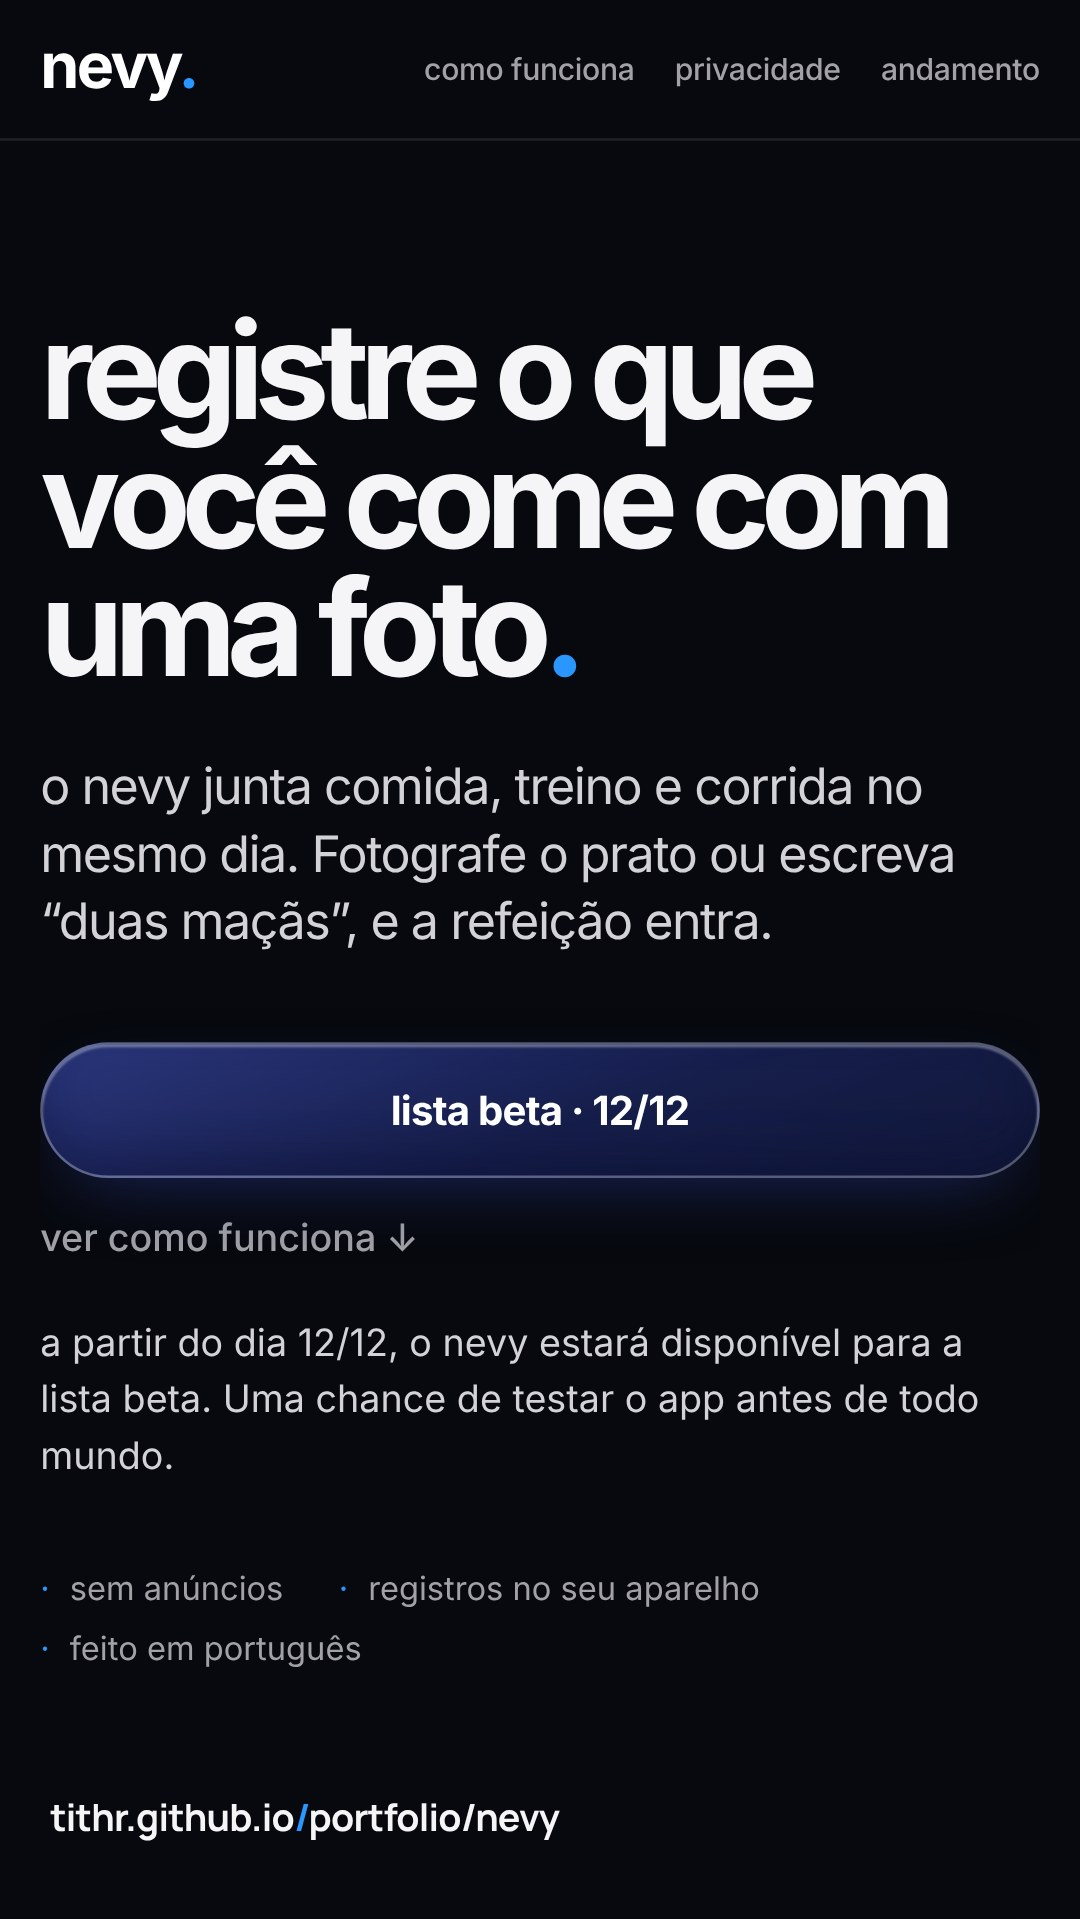
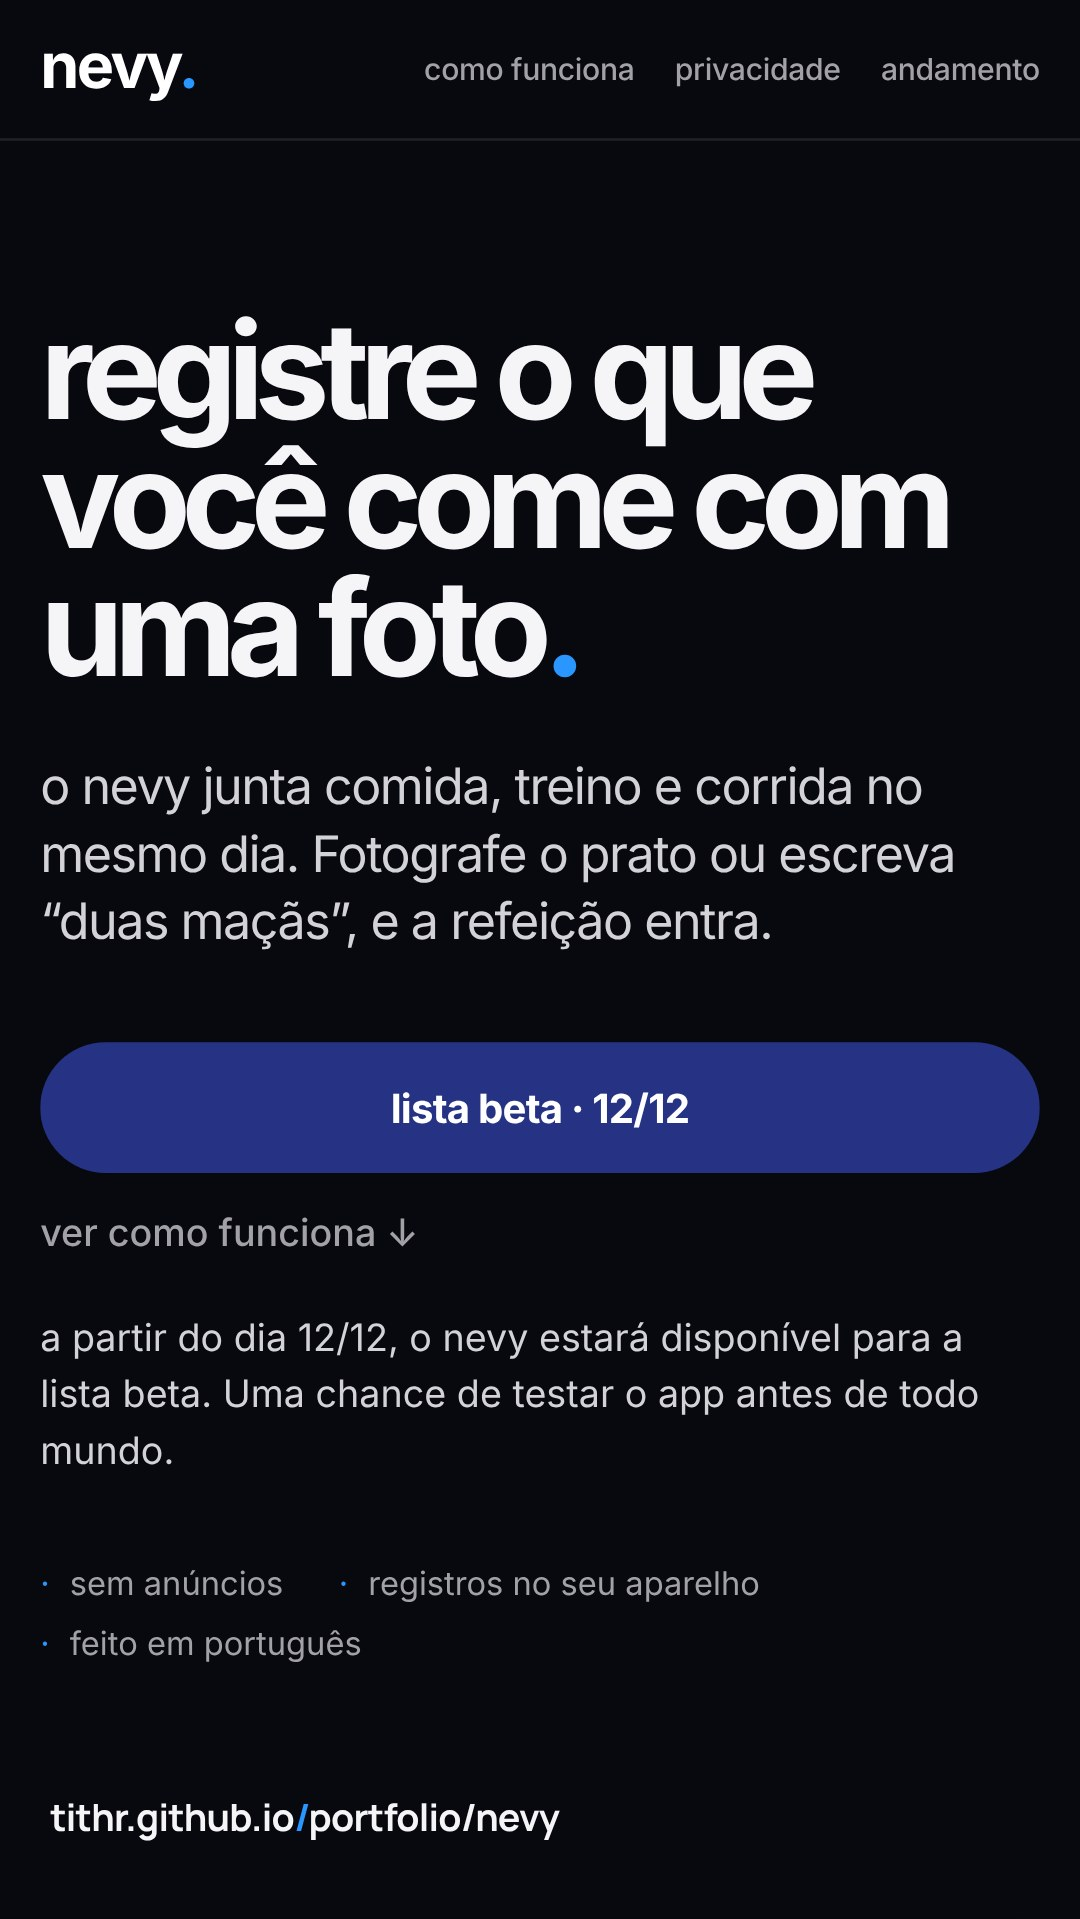
nevy landing: botões sem glass, seletor de idioma volta ao padrão do site
Claude-Session: https://claude.ai/code/session_015z2G63p8ibVhGsPnRoC111

diff --git a/styles.css b/styles.css
@@ -312,11 +312,10 @@ footer a { color: var(--ink); }
 .lp-hero h1 { margin: 18px 0 24px; font-size: clamp(42px, 6.2vw, 84px); letter-spacing: -.07em; line-height: .96; }
 .lp-hero h1 span { color: var(--acid); }
 .lp-cta { display: flex; flex-wrap: wrap; align-items: center; gap: 14px 26px; margin-top: 34px; }
-.lp-btn { display: inline-block; padding: 16px 30px; border: 1px solid rgba(255,255,255,.28); border-radius: 999px; background: linear-gradient(160deg, rgba(74,92,214,.55), rgba(38,51,132,.5) 55%, rgba(38,51,132,.35)); -webkit-backdrop-filter: blur(18px) saturate(180%); backdrop-filter: blur(18px) saturate(180%); box-shadow: inset 0 1px 1px rgba(255,255,255,.35), inset 0 -8px 16px rgba(10,14,48,.35), 0 10px 30px -12px rgba(38,51,132,.8); color: #fff; font: inherit; font-size: 16px; font-weight: 700; letter-spacing: -.02em; }
+.lp-btn { display: inline-block; padding: 16px 30px; border: 0; border-radius: 999px; background: #263384; color: #fff; font: inherit; font-size: 16px; font-weight: 700; letter-spacing: -.02em; }
 .lp-btn:disabled { cursor: not-allowed; }
 .lp-soon { max-width: 440px; margin: 22px 0 0; color: #d2d2d7; font-size: 15px; line-height: 1.5; }
-.status.lp-off { padding: 8px 18px; text-decoration: none; color: #fff; border: 1px solid rgba(255,255,255,.28); border-radius: 999px; background: linear-gradient(160deg, rgba(74,92,214,.55), rgba(38,51,132,.5)); -webkit-backdrop-filter: blur(14px) saturate(180%); backdrop-filter: blur(14px) saturate(180%); box-shadow: inset 0 1px 1px rgba(255,255,255,.35); cursor: default; }
-.lp .lang-switch { padding: 5px 14px; border: 1px solid rgba(255,255,255,.2); border-radius: 999px; background: rgba(255,255,255,.08); -webkit-backdrop-filter: blur(14px) saturate(180%); backdrop-filter: blur(14px) saturate(180%); box-shadow: inset 0 1px 1px rgba(255,255,255,.25); }
+.status.lp-off { padding: 8px 18px; text-decoration: none; color: #fff; border-radius: 999px; background: #263384; cursor: default; }
 .lp-big { margin: 24px 0 0; font-size: clamp(54px, 9vw, 128px); font-weight: 700; letter-spacing: -.09em; line-height: .9; }
 .lp-big span { color: #5a6be0; }
 .lp-link { color: var(--muted); font-size: 15px; font-weight: 500; transition: color .2s; }

diff --git a/nevy.html b/nevy.html
@@ -22,7 +22,7 @@
     <meta name="theme-color" content="#07090e" />
     <link rel="preload" href="fonts/manrope.woff2" as="font" type="font/woff2" crossorigin />
     <link rel="preload" href="img/nevy/03-hoje.webp" as="image" type="image/webp" fetchpriority="high" />
-    <link rel="stylesheet" href="styles.css?v=45" />
+    <link rel="stylesheet" href="styles.css?v=46" />
     <script type="application/ld+json">{"@context":"https://schema.org","@type":"MobileApplication","name":"nevy","operatingSystem":"iOS","applicationCategory":"HealthApplication","inLanguage":"pt-BR","description":"App de iPhone para registrar comida, treino e corrida com poucos toques. Em desenvolvimento.","author":{"@type":"Person","name":"Tiago Rosario","url":"https://tithr.github.io/portfolio/"}}</script>
   </head>
   <body class="case-page lp">

diff --git a/404.html b/404.html
@@ -8,7 +8,7 @@
     <meta name="theme-color" content="#07090e" />
     <link rel="icon" type="image/svg+xml" href="/portfolio/favicon.svg" />
     <style>@font-face { font-family: Manrope; font-weight: 200 800; font-display: swap; src: url(/portfolio/fonts/manrope.woff2) format("woff2"); }</style>
-    <link rel="stylesheet" href="/portfolio/styles.css?v=45" />
+    <link rel="stylesheet" href="/portfolio/styles.css?v=46" />
   </head>
   <body class="case-page">
     <a class="skip" href="#conteudo" data-i18n="skip">pular para o conteúdo</a>

diff --git a/nevy-case.html b/nevy-case.html
@@ -21,7 +21,7 @@
     <meta name="twitter:card" content="summary_large_image" />
     <meta name="theme-color" content="#07090e" />
     <link rel="preload" href="fonts/manrope.woff2" as="font" type="font/woff2" crossorigin />
-    <link rel="stylesheet" href="styles.css?v=45" />
+    <link rel="stylesheet" href="styles.css?v=46" />
   </head>
   <body class="case-page">
     <a class="skip" href="#conteudo" data-i18n="skip">pular para o conteúdo</a>

diff --git a/primeiro-commit.html b/primeiro-commit.html
@@ -21,7 +21,7 @@
     <meta name="twitter:card" content="summary_large_image" />
     <meta name="theme-color" content="#07090e" />
     <link rel="preload" href="fonts/manrope.woff2" as="font" type="font/woff2" crossorigin />
-    <link rel="stylesheet" href="styles.css?v=45" />
+    <link rel="stylesheet" href="styles.css?v=46" />
   </head>
   <body class="case-page">
     <a class="skip" href="#conteudo" data-i18n="skip">pular para o conteúdo</a>

diff --git a/index.html b/index.html
@@ -21,7 +21,7 @@
     <meta name="theme-color" content="#07090e" />
     <link rel="icon" type="image/svg+xml" href="favicon.svg" />
     <link rel="preload" href="fonts/manrope.woff2" as="font" type="font/woff2" crossorigin />
-    <link rel="stylesheet" href="styles.css?v=45" />
+    <link rel="stylesheet" href="styles.css?v=46" />
     <script type="application/ld+json">
       {
         "@context": "https://schema.org",
